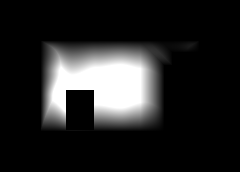
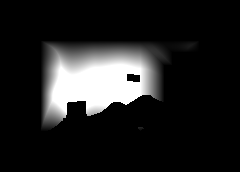
EPO03 east: E2 roll 1 rejected (it rebuilt the cone and painted Emberhold out); add cut.freezeDark so the rock silhouette and both towers are frozen byte-exact

Changed region(s): [[0.2042, 0.5233, 0.7, 0.7558], [0.525, 0.407, 0.5833, 0.4942]]

diff --git a/GAME_BIBLE/ART/exploration/EPO03/tools/atlas-maskcut.js b/GAME_BIBLE/ART/exploration/EPO03/tools/atlas-maskcut.js
@@ -48,6 +48,14 @@ const holeInflate = cut.holeInflate === undefined ? 2 : cut.holeInflate;
 // generator pattern (a slab, then a fresh honeycomb); a ribbon leaves it no
 // room to invent one. Narrows only, never widens (G-4). Undefined = disabled.
 const landMargin = cut.landMargin === undefined ? null : cut.landMargin;
+// (d) EPO03 east, added after E2 roll 1: FREEZE DARK. Every source pixel below
+// `cut.freezeDark.maxL` (CIE L*), dilated by `inflate`, is forced to 0. E2 roll
+// 1 put the mask on the volcano and the tool rebuilt the cone, grew the rock
+// north into the snow and painted the Emberhold tower out. On this crop rock
+// and towers sit at L* < 30 and everything else at L* > 50, so the threshold
+// freezes the whole silhouette byte-exact and lets the snow be authored right
+// up against it — "author around them, do not repaint them" made mechanical.
+const freezeDark = cut.freezeDark || null;
 const landInpaintMargin = cut.landInpaintMargin === undefined
   ? (landMargin === null ? null : landMargin - 6) : cut.landInpaintMargin;
 const holes = cut.holes || [];
@@ -158,13 +166,34 @@ if (landMargin !== null) {
   }
 }
 
+const darkFrozen = new Uint8Array(w * h);
+if (freezeDark) {
+  const { lstar } = require(path.join(ROOT, "tools", "colour.js"));
+  const maxL = freezeDark.maxL === undefined ? 42 : freezeDark.maxL;
+  const inflate = freezeDark.inflate === undefined ? 3 : freezeDark.inflate;
+  const dark = new Uint8Array(w * h);
+  for (let y = 0; y < h; y++) for (let x = 0; x < w; x++) {
+    const i = src.idx(x, y);
+    if (src.data[i + 3] === 0) continue;
+    if (lstar(src.data[i], src.data[i + 1], src.data[i + 2]) < maxL) dark[y * w + x] = 1;
+  }
+  for (let y = 0; y < h; y++) for (let x = 0; x < w; x++) {
+    if (!dark[y * w + x]) continue;
+    for (let dy = -inflate; dy <= inflate; dy++) for (let dx = -inflate; dx <= inflate; dx++) {
+      const nx = x + dx, ny = y + dy;
+      if (nx < 0 || ny < 0 || nx >= w || ny >= h) continue;
+      darkFrozen[ny * w + nx] = 1;
+    }
+  }
+}
+
 const inHole = (ax, ay, inflate) => holes.some((r) =>
   ax >= r.x - inflate && ax < r.x + r.w + inflate && ay >= r.y - inflate && ay < r.y + r.h + inflate);
 
 // 4. Narrow the shipping mask; build the PixelLab mask.
 const ip = region.inpaint;
 const paint = new png.Raster(w, h);
-let cutSea = 0, cutHole = 0, cutDeep = 0, white = 0, kept = 0;
+let cutSea = 0, cutHole = 0, cutDeep = 0, cutDark = 0, white = 0, kept = 0;
 for (let y = 0; y < h; y++) {
   for (let x = 0; x < w; x++) {
     const s = y * w + x, ax = region.x + x, ay = region.y + y;
@@ -173,12 +202,13 @@ for (let y = 0; y < h; y++) {
     if (mask.data[mi] > 0 && openSea) { cutSea++; mask.data[mi] = mask.data[mi + 1] = mask.data[mi + 2] = 0; }
     const deepIce = landMargin !== null && wet[s] > landMargin;
     if (mask.data[mi] > 0 && deepIce) { cutDeep++; mask.data[mi] = mask.data[mi + 1] = mask.data[mi + 2] = 0; }
+    if (mask.data[mi] > 0 && darkFrozen[s]) { cutDark++; mask.data[mi] = mask.data[mi + 1] = mask.data[mi + 2] = 0; }
     if (mask.data[mi] > 0 && inHole(ax, ay, 0)) { cutHole++; mask.data[mi] = mask.data[mi + 1] = mask.data[mi + 2] = 0; }
     if (mask.data[mi] > 0) kept++;
     const inRect = ip && x >= ip.x && x < ip.x + ip.w && y >= ip.y && y < ip.y + ip.h;
     const paintable = inRect && !(!big[s] && dist[s] > inpaintMargin)
       && !(landInpaintMargin !== null && wet[s] > landInpaintMargin)
-      && !inHole(ax, ay, holeInflate);
+      && !darkFrozen[s] && !inHole(ax, ay, holeInflate);
     const v = paintable ? 255 : 0;
     if (paintable) white++;
     const pi = paint.idx(x, y);
@@ -189,6 +219,6 @@ png.save(maskPath, mask);
 const paintPath = path.join(ROOT, 'src', 'atlas', `${id}_inpaint.png`);
 png.save(paintPath, paint);
 console.log(`${id} cut: sea ${cutSea} px zeroed (margin ${seaMargin}), deep ice ${cutDeep} px zeroed ` +
-  `(landMargin ${landMargin}), holes ${cutHole} px zeroed, ` +
+  `(landMargin ${landMargin}), dark rock ${cutDark} px zeroed, holes ${cutHole} px zeroed, ` +
   `${kept} px still authorized; inpaint mask ${white} px white (margin ${inpaintMargin}, ` +
   `holes +${holeInflate}) -> ${path.relative(REPO, paintPath)}`);

diff --git a/GAME_BIBLE/ART/exploration/EPO03/ledger/WORLD_EAST.md b/GAME_BIBLE/ART/exploration/EPO03/ledger/WORLD_EAST.md
@@ -10,6 +10,7 @@ sum of the cost column. Salts 100–119. Regions file
 | 1 | E1 roll 1 — calving front + honeycomb in one 260x210 ask, crop 580,0 340x300 | `inpaint_image` | `a3a708e0-44fe-4154-9cab-117e3912e4a9` | 1001 | 25 | REJECT | one enormous smooth glacier tongue with airbrushed gradients and an outlined rim; slab terrain, straight mask edge visible, red dashed border. Intent changed: split into E1 front strip + E3 pack interior. `rejected/atlas_E1_r1.txt`, `review/atlas/E1_r1_x2.png` |
 | 2 | E1 roll 2 — front strip 750-880 x 40-250, prompt led with broken floes | `inpaint_image` | `260773ad-1d96-4a60-8a03-7a946b6fad5d` | 1002 | 25 | REJECT | drew a NEW honeycomb: near-uniform pebble floes in a net of heavy navy leads, darker than the master`s teal; the straight ice/sea edge was left. Two rolls, two generator patterns → intent changed to a ribbon mask, not a new seed. `review/atlas/E1_r2_x2.png` |
 | 3 | E1 roll 3 — RIBBON: authorization cut to a band straddling the ice margin (landMargin 32 / seaMargin 24, `atlas-maskcut.js` extended), pack interior frozen; prompt asks only for the margin | `inpaint_image` | `05f28ed5-05a5-4840-b5c0-40be6e7d2d32` | 1003 | 25 | **ACCEPT** | the hard white diagonal is gone: lobed margin with bays and headlands, a shadow along the ice foot, calved bergs at several sizes, brash thinning seaward. Violet shadow remapped to the neighbouring ice palette (`atlas-quantise`, 13 entries, 0 gens); 185 one-pixel islands filled (`atlas-fleck`, 0 gens). Ice still under Rimespire (824,156) = #e1f5fc. `review/atlas/E1_after_fov_x2.png` |
+| 4 | E2 roll 1 — ice-to-volcano join, crop 560,188 240x172, inpaint atlas 600-760 x 228-320, Rimewatch tower holed, Emberhold + east cliff held by their golden keepouts | `inpaint_image` | `e52ddd83-03fc-4b6e-9ad0-5555ea84a394` | 1004 | 20 | pending | submitted 2026-09-02 |
 
 **Deterministic passes (0 generations):** `atlas-quantise.js` palette remap of
 E1 (spread 14, palette from atlas 640–900 × 20–260, 13 entries) and a new
